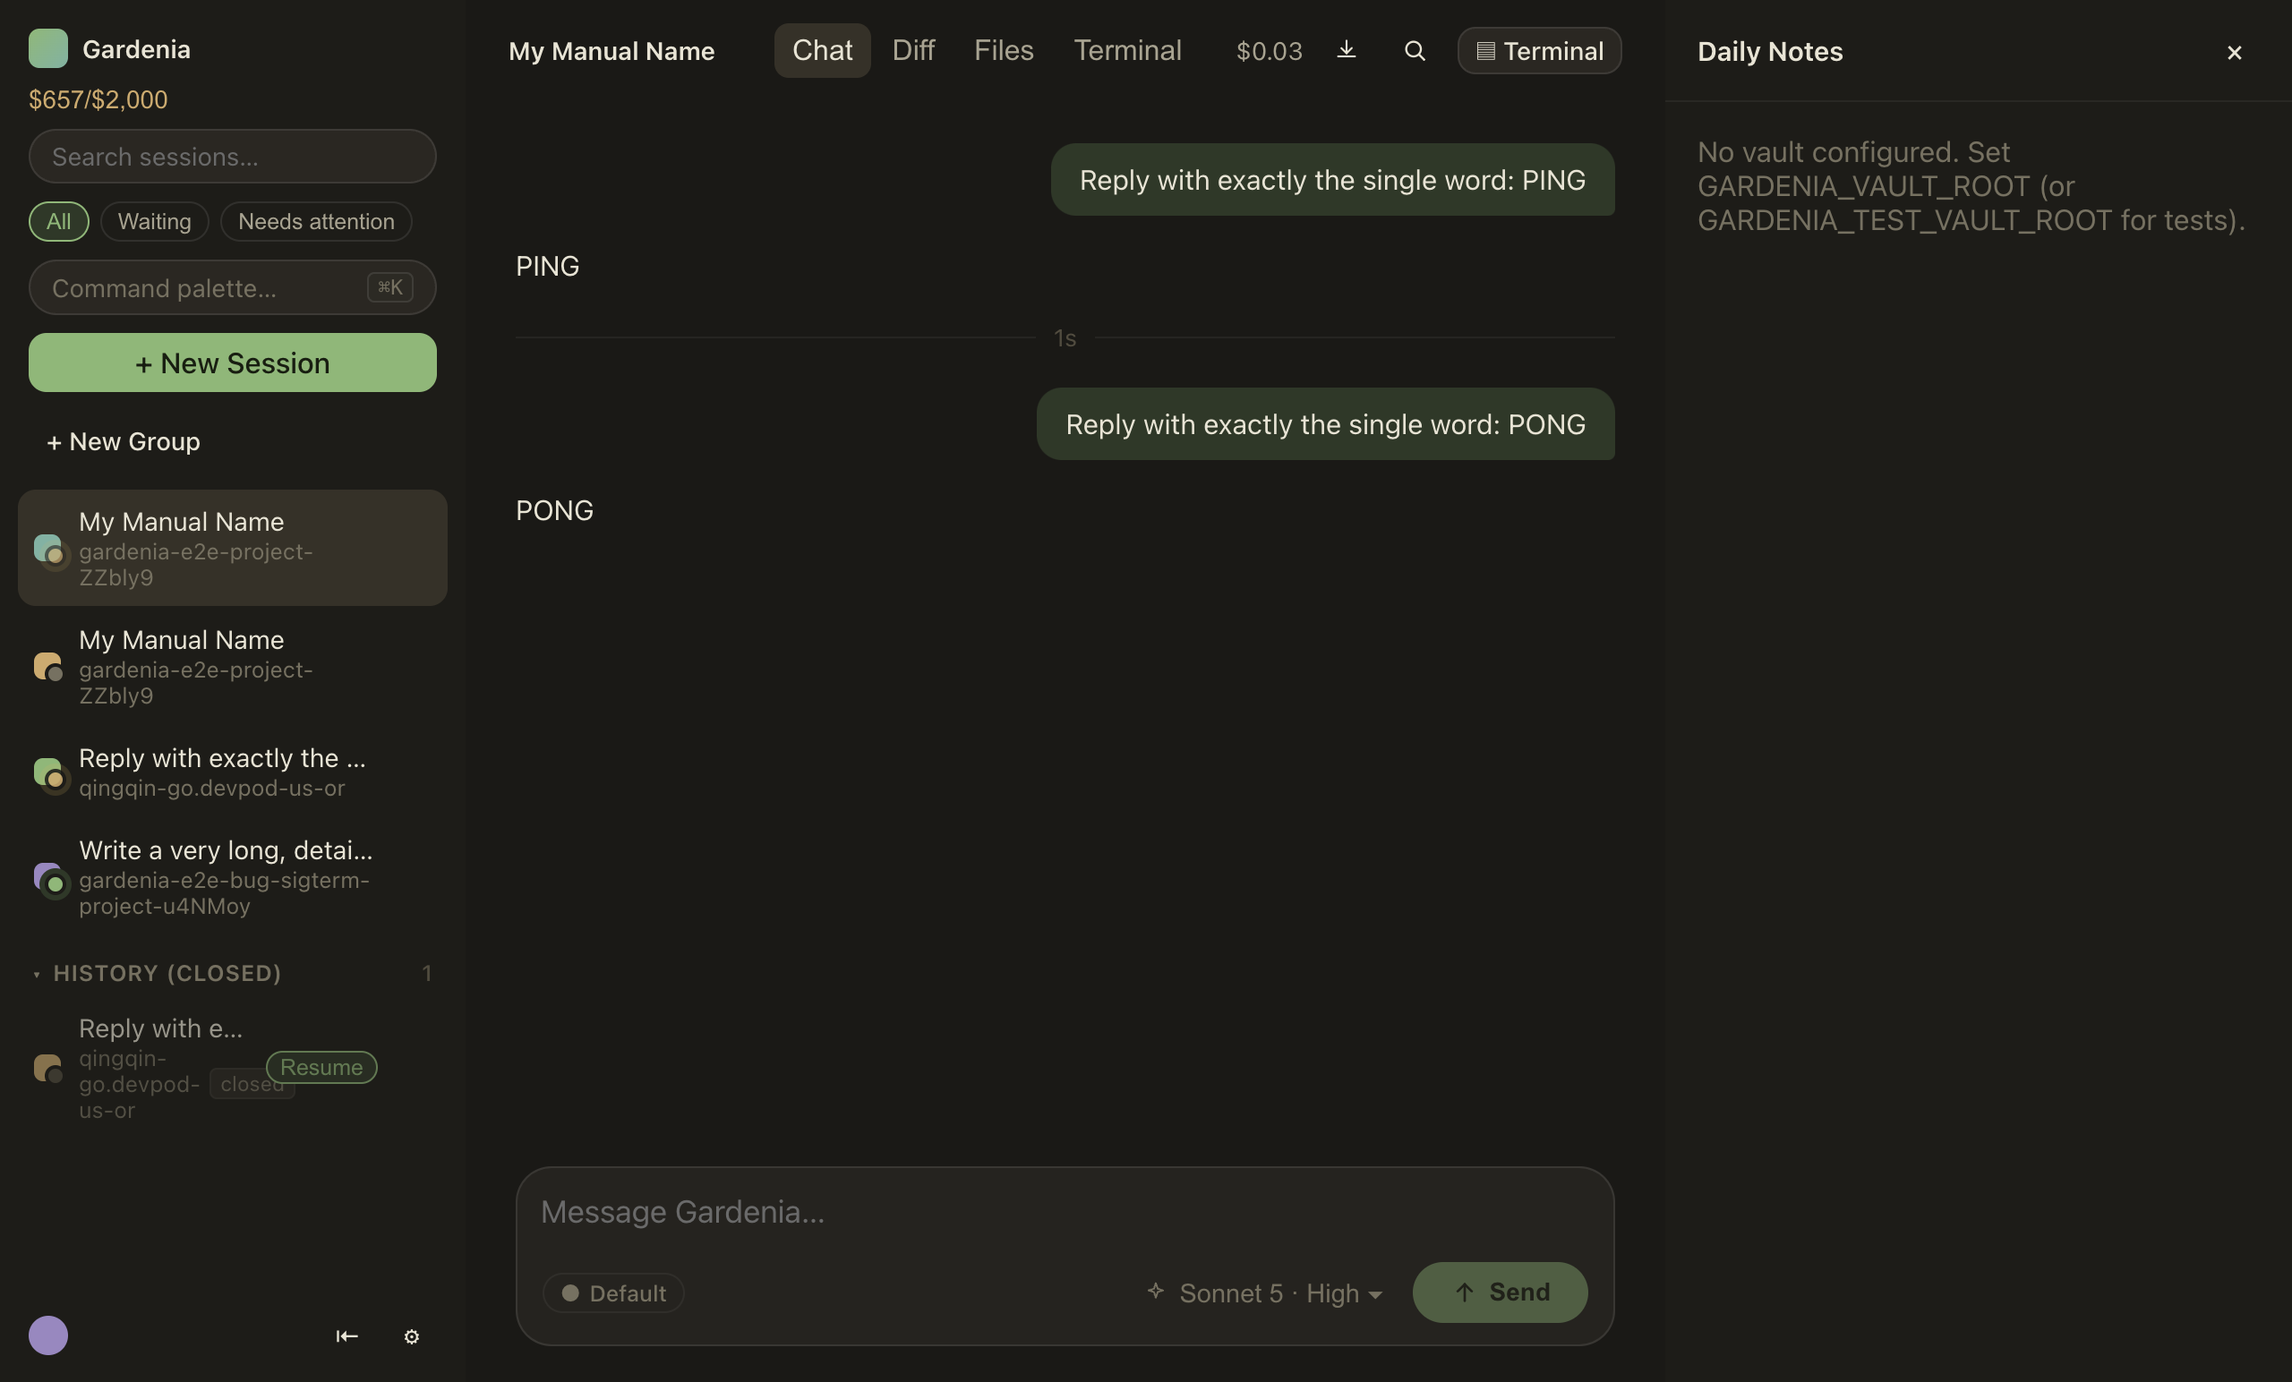
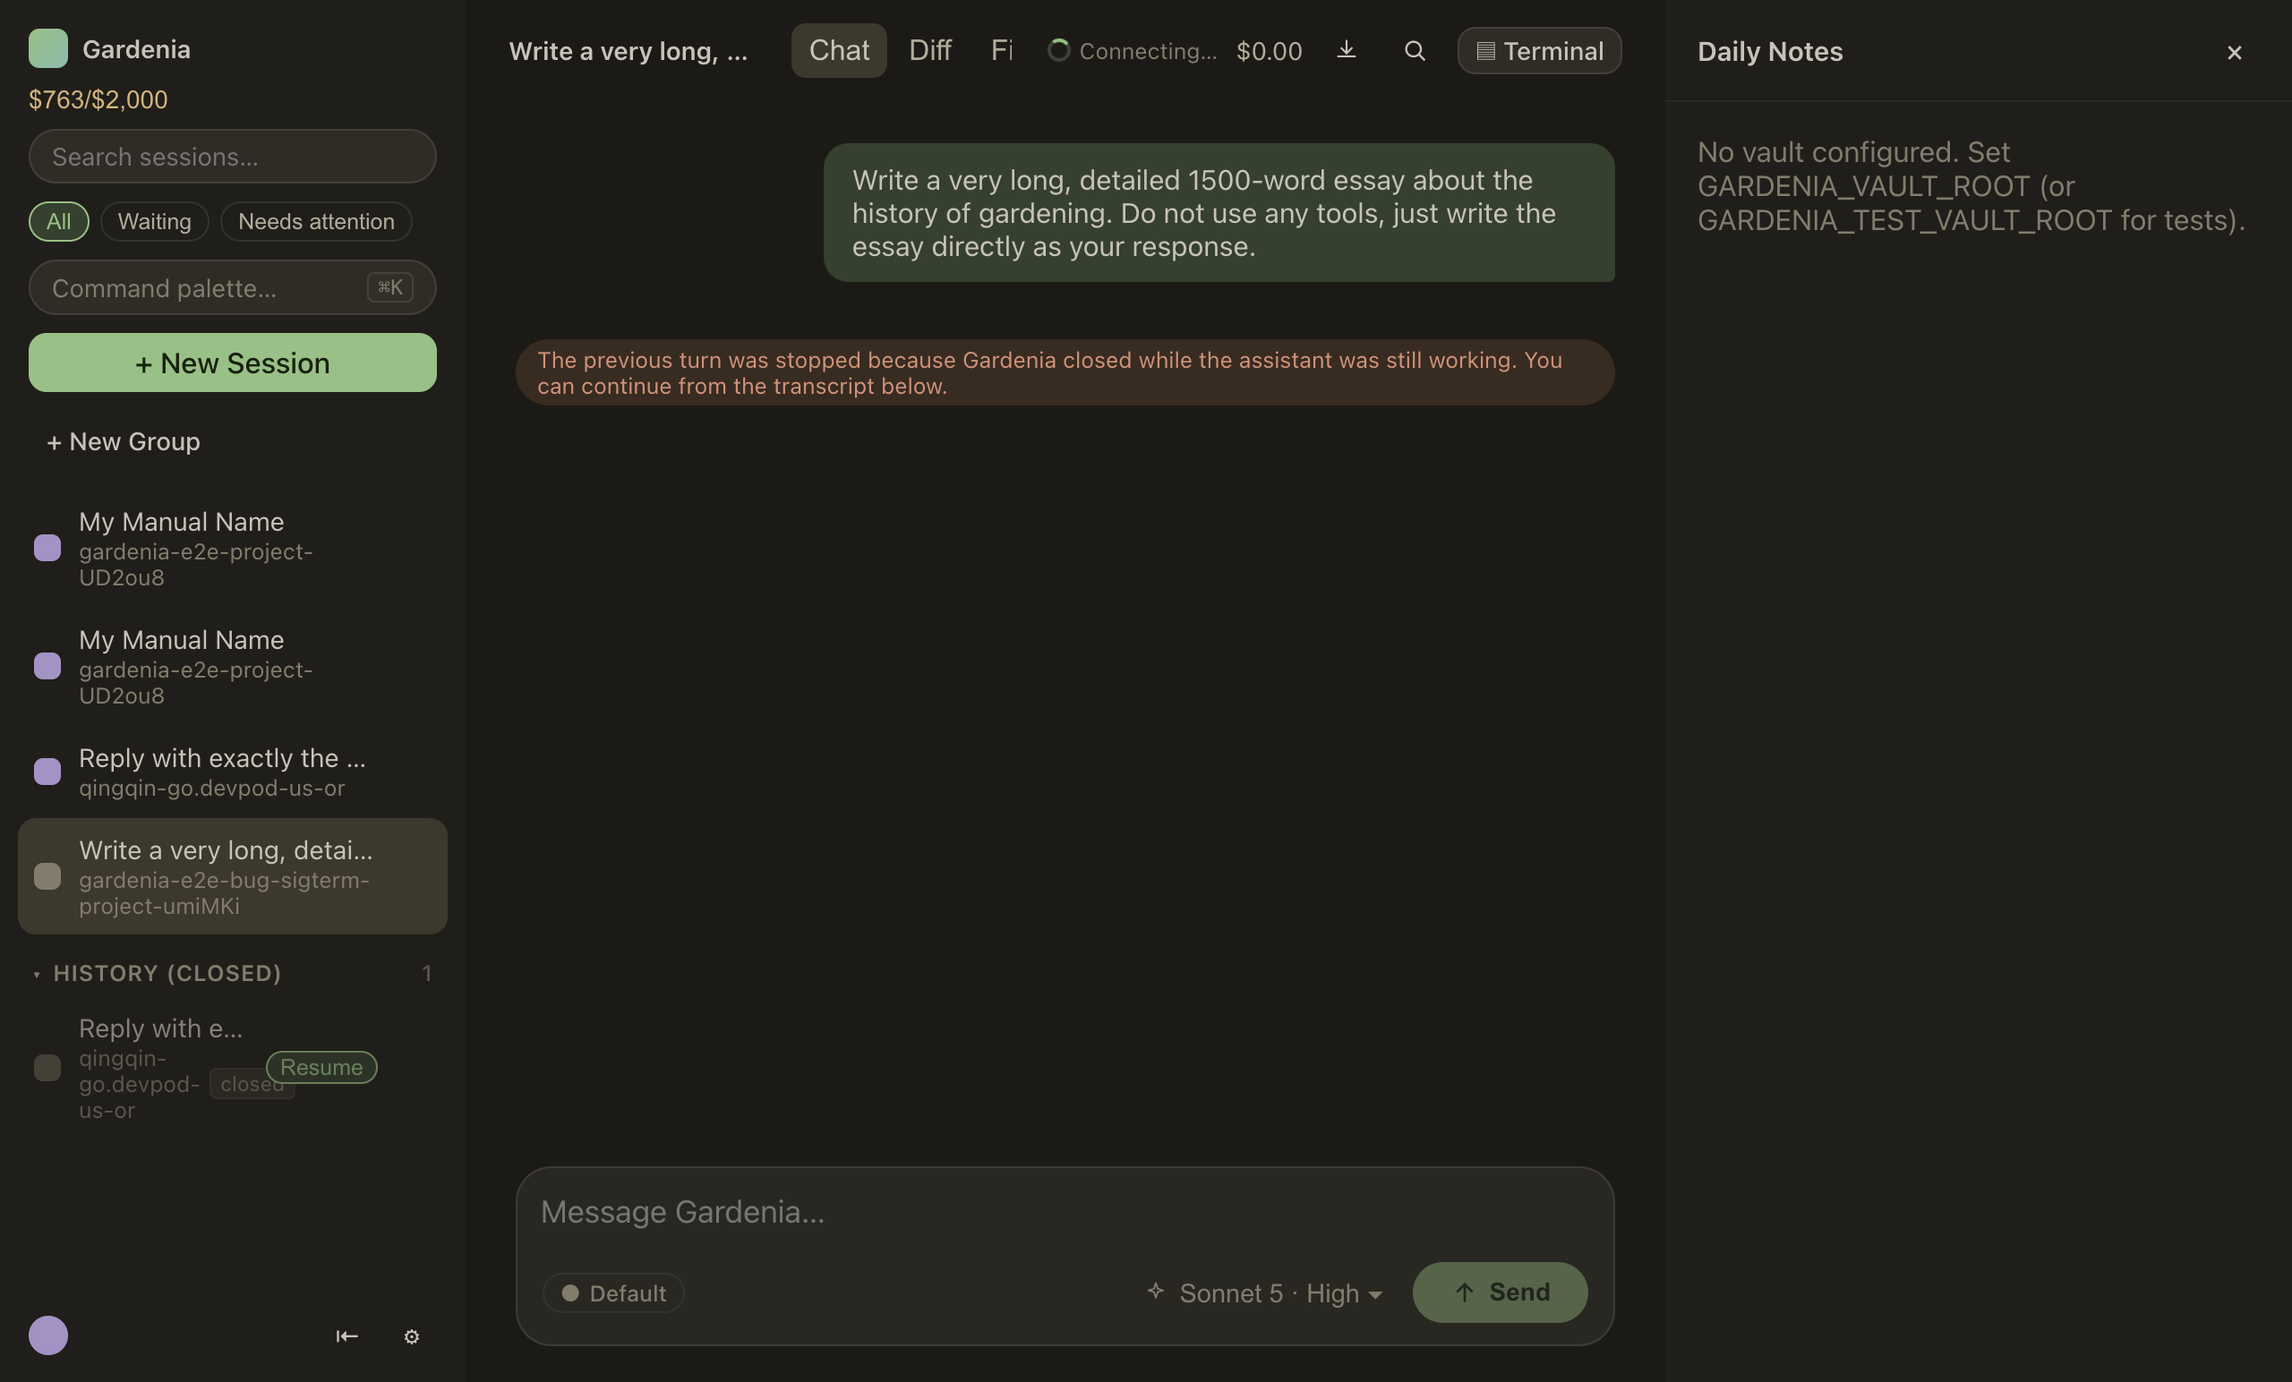
fix: one-time interrupted-turn notice on resume instead of stale SDK errors
Gracefully interrupt claude-code sessions on app quit, persist a pending flag
when a turn is cut off by close/quit, and show a single plain-language system
message on the next resume without writing bogus process-exit errors.

diff --git a/e2e/session-lifecycle.spec.ts b/e2e/session-lifecycle.spec.ts
@@ -3,6 +3,7 @@ import { mkdtempSync, mkdirSync, writeFileSync, readFileSync, existsSync, rmSync
 import { execFileSync } from 'node:child_process'
 import { tmpdir, homedir } from 'node:os'
 import { join } from 'node:path'
+import { TURN_INTERRUPTED_NOTICE } from '../src/shared/session-types'
 
 const mainEntry = join(__dirname, '..', 'out', 'main', 'index.js')
 const artifactsDir = join(__dirname, '..', 'e2e-artifacts')
@@ -542,6 +543,7 @@ test.describe('02-session-lifecycle', () => {
     await openNewSessionModal(page)
     await page.getByTestId('pick-project-folder').click()
     await page.getByTestId('mode-claude-code').click()
+    const bugProjectDirName = bugProjectDir.split('/').pop() as string
     // A prompt that keeps the turn actively streaming for a bit — closing
     // WHILE a turn is in flight is the path that actually makes the SDK's
     // query() iterator throw (query.interrupt() only aborts a turn that's
@@ -552,7 +554,7 @@ test.describe('02-session-lifecycle', () => {
     await page.getByTestId('start-session-button').click()
     await expect(page.getByTestId('new-session-modal')).toHaveCount(0)
 
-    const row = page.locator('[data-testid="session-row"]').first()
+    const row = page.locator('[data-testid="session-row"]', { hasText: bugProjectDirName })
     await expect(row).toBeVisible({ timeout: 15_000 })
     const sessionId = (await row.getAttribute('data-session-id')) as string
     expect(sessionId).toBeTruthy()
@@ -568,14 +570,16 @@ test.describe('02-session-lifecycle', () => {
     // reliable, UI-observable proxy for "actively streaming" available here.
     await expect(page.getByTestId('composer-working-pill')).toBeVisible({ timeout: 15_000 })
     await expect
-      .poll(async () => page.locator('[data-testid="transcript-message"][data-role="assistant"]').count(), {
-        timeout: 30_000
-      })
-      .toBeGreaterThan(0)
+      .poll(
+        async () => {
+          const busy = await page.getByTestId('composer-working-pill').isVisible()
+          const assistants = await page.locator('[data-testid="transcript-message"][data-role="assistant"]').count()
+          return busy && assistants > 0
+        },
+        { timeout: 30_000 }
+      )
+      .toBe(true)
 
-    // Close via the session menu — this is the live harness.interrupt() path
-    // (not a full app relaunch) that, per the bug hypothesis, writes the
-    // bogus SIGTERM 'error' system message into permanent history.
     await row.getByTestId('session-menu-button').click()
     await row.getByTestId('menu-close').click()
 
@@ -587,21 +591,30 @@ test.describe('02-session-lifecycle', () => {
     // resuming, so the reproduction isn't racing it.
     await page.waitForTimeout(2000)
 
+    await expect
+      .poll(
+        async () => {
+          const rows = await queryDb<{ pending_turn_interrupted_notice: number }>(
+            page,
+            'SELECT pending_turn_interrupted_notice FROM sessions WHERE id = ?',
+            [sessionId]
+          )
+          return rows[0]?.pending_turn_interrupted_notice ?? 0
+        },
+        { timeout: 5_000 }
+      )
+      .toBe(1)
+
     await historyRow.getByTestId('resume-button').click()
 
     const activeRow = page.locator(`[data-testid="session-row"][data-session-id="${sessionId}"]`)
     await expect(activeRow).toBeVisible({ timeout: 10_000 })
 
-    // Part B: a "Connecting…" indicator must show up during the reconnect
-    // gap (fails on main — no such element exists at all).
-    await expect(page.getByTestId('connecting-pill')).toBeVisible({ timeout: 5_000 })
-    // ...and must not be stuck visible once the session is interactive again.
+    // Reconnect may finish before the connecting pill paints — only assert it
+    // does not stay visible once the session is interactive again.
     await expect(page.getByTestId('connecting-pill')).toHaveCount(0, { timeout: 15_000 })
 
-    // Part A: no bogus system-role "Error: ..." message — persisted by
-    // applyEvent's `case 'error':` as `Error: ${event.message}` — should be
-    // sitting in the resumed transcript as a result of OUR OWN close/
-    // interrupt.
+    // Part A: no bogus SDK "Error: ..." from our own close/interrupt.
     const rowsAfterClose = await queryDb<{ role: string; content: string }>(
       page,
       "SELECT role, content FROM messages WHERE session_id = ? AND role = 'system' AND content LIKE 'Error:%'",
@@ -612,17 +625,36 @@ test.describe('02-session-lifecycle', () => {
     const texts = await page.locator('[data-testid="transcript-message"]').allTextContents()
     expect(texts.some((t) => t.startsWith('Error:'))).toBe(false)
 
+    const noticeRows = await queryDb<{ content: string }>(
+      page,
+      'SELECT content FROM messages WHERE session_id = ? AND role = ? AND content = ?',
+      [sessionId, 'system', TURN_INTERRUPTED_NOTICE]
+    )
+    expect(noticeRows).toHaveLength(1)
+    expect(texts.some((t) => t === TURN_INTERRUPTED_NOTICE)).toBe(true)
+
+    // Closing idle and resuming again must not duplicate the notice.
+    await expect(page.getByTestId('composer-working-pill')).toHaveCount(0, { timeout: 15_000 })
+    await activeRow.getByTestId('session-menu-button').click()
+    await activeRow.getByTestId('menu-close').click()
+    await expect(historyRow).toBeVisible({ timeout: 10_000 })
+    await page.waitForTimeout(1000)
+    await historyRow.getByTestId('resume-button').click()
+    await expect(page.locator(`[data-testid="session-row"][data-session-id="${sessionId}"]`)).toBeVisible({
+      timeout: 10_000
+    })
+    const noticeRowsAfterSecondResume = await queryDb<{ content: string }>(
+      page,
+      'SELECT content FROM messages WHERE session_id = ? AND role = ? AND content = ?',
+      [sessionId, 'system', TURN_INTERRUPTED_NOTICE]
+    )
+    expect(noticeRowsAfterSecondResume).toHaveLength(1)
+
     await page.screenshot({ path: join(artifactsDir, 'bug-session-resume-sigterm-after-resume.png') })
 
-    // Log evidence: the real reconnect path itself must not have logged a
-    // failure — confirming any visible error is stale/replayed, not a live
-    // reconnect failure.
     appendMainLog(userDataDir)
     const log = readFileSync(lifecycleLogPath, 'utf-8')
     expect(log).not.toContain('"context":"reconnect"')
-
-    await row.getByTestId('session-menu-button').click()
-    await row.getByTestId('menu-close').click()
   })
 
   test('bug: resume after close does not leave a Bash tool chip stuck in the running state', async () => {

diff --git a/src/main/sessions/manager.ts b/src/main/sessions/manager.ts
@@ -19,6 +19,7 @@ import type {
   SessionStatus,
   SlashCommandInfo
 } from '../../shared/session-types'
+import { TURN_INTERRUPTED_NOTICE } from '../../shared/session-types'
 import type {
   AskUserQuestionContent,
   CompactionContent,
@@ -547,6 +548,7 @@ export class SessionManager {
     if (!existing) throw new Error(`Unknown session: ${sessionId}`)
     const session = this.decorate(this.store.reopenSession(sessionId) ?? existing)
     this.finalizeStaleRunningToolCalls(sessionId)
+    this.deliverPendingTurnInterruptedNotice(sessionId)
     const messages = this.store.listMessages(sessionId)
     this.sendLifecycle({ type: 'session.resumed', session })
     return { session, messages }
@@ -1059,6 +1061,7 @@ export class SessionManager {
   // ── Close / Delete / Rename / Pin ────────────────────────────────────
 
   closeSession(sessionId: string): SessionRecord {
+    this.markInterruptedTurnNoticeIfBusy(sessionId)
     void this.harness.interrupt(sessionId).catch(() => undefined)
     const live = this.live.get(sessionId)
     this.finalizeStaleRunningToolCalls(sessionId, live)
@@ -1211,6 +1214,26 @@ export class SessionManager {
     for await (const event of events) {
       this.applyEvent(sessionId, event)
     }
+  }
+
+  private markInterruptedTurnNoticeIfBusy(sessionId: string): void {
+    const live = this.live.get(sessionId)
+    if (!live) return
+    const turnInFlight = live.busy || live.bufferMessageId != null || live.pendingTools.size > 0
+    if (turnInFlight) {
+      this.store.setPendingTurnInterruptedNotice(sessionId)
+    }
+  }
+
+  /** Inserts {@link TURN_INTERRUPTED_NOTICE} at most once per pending flag. */
+  private deliverPendingTurnInterruptedNotice(sessionId: string): void {
+    if (!this.store.consumePendingTurnInterruptedNotice(sessionId)) return
+    const message = this.store.addMessage({
+      sessionId,
+      role: 'system',
+      content: TURN_INTERRUPTED_NOTICE
+    })
+    this.sendMessage(sessionId, message)
   }
 
   private applyEvent(sessionId: string, event: HarnessEvent): void {
@@ -1556,6 +1579,33 @@ export class SessionManager {
     }
     if (updated && updated.name === title) {
       this.sendLifecycle({ type: 'session.updated', session: updated })
+    }
+  }
+
+  /**
+   * Gracefully interrupts every live claude-code session on app quit so SDK
+   * teardown surfaces `interrupted` (not `error`) and mid-turn sessions get
+   * {@link TURN_INTERRUPTED_NOTICE} on the next resume.
+   */
+  async shutdownAllHarnessSessionsForAppQuit(): Promise<void> {
+    for (const [sessionId, liveStream] of this.live.entries()) {
+      const turnInFlight =
+        liveStream.busy || liveStream.bufferMessageId != null || liveStream.pendingTools.size > 0
+      if (turnInFlight) {
+        this.store.setPendingTurnInterruptedNotice(sessionId)
+      }
+    }
+    const sessionIds = this.store
+      .listActiveSessions()
+      .filter((s) => s.mode === 'claude-code')
+      .map((s) => s.id)
+    await Promise.all(sessionIds.map((id) => this.harness.interrupt(id).catch(() => undefined)))
+    // Let each session's `consume()` loop apply `interrupted` before the DB closes.
+    await delay(750)
+    for (const sessionId of sessionIds) {
+      this.live.delete(sessionId)
+      this.connecting.delete(sessionId)
+      this.sendTurnState(sessionId, false)
     }
   }
 

diff --git a/src/main/index.ts b/src/main/index.ts
@@ -19,6 +19,9 @@ const isDev = !app.isPackaged
 let mainWindow: BrowserWindow | null = null
 let ptyManager: PtyManager | null = null
 let portManager: PortForwardManager | null = null
+let sessionManager: SessionManager | null = null
+/** Prevents a second `before-quit` from re-entering async harness teardown. */
+let appQuitHarnessShutdownDone = false
 
 function createWindow(): BrowserWindow {
   const win = new BrowserWindow({
@@ -113,8 +116,9 @@ app.whenReady().then(() => {
   // guidance) — sessions/turns are keyed off its own internal map, not
   // re-created per IPC call.
   const harness = new ClaudeAgentSdkHarness()
-  const sessionManager = new SessionManager(sessionStore, harness, createStaticHostResolver(), () => mainWindow)
-  registerIpcHandlers(sessionManager)
+  sessionManager = new SessionManager(sessionStore, harness, createStaticHostResolver(), () => mainWindow)
+  const manager = sessionManager
+  registerIpcHandlers(manager)
 
   logger.info('app ready', { version: app.getVersion(), platform: process.platform })
 
@@ -123,7 +127,7 @@ app.whenReady().then(() => {
   // Fire-and-forget: probe each session's recoverability in the background
   // and push session:stale events to the renderer for any that can't resume.
   // Deliberately delayed so the window has time to render before SSH probes start.
-  setTimeout(() => sessionManager.startupReconnect(), 1500)
+  setTimeout(() => manager.startupReconnect(), 1500)
 
   app.on('activate', () => {
     if (BrowserWindow.getAllWindows().length === 0) mainWindow = createWindow()
@@ -141,7 +145,29 @@ app.on('window-all-closed', () => {
   }
 })
 
-app.on('before-quit', () => {
-  ptyManager?.killAll()
-  portManager?.killAll()
+app.on('before-quit', (event) => {
+  if (appQuitHarnessShutdownDone) {
+    ptyManager?.killAll()
+    portManager?.killAll()
+    return
+  }
+  if (!sessionManager) {
+    ptyManager?.killAll()
+    portManager?.killAll()
+    return
+  }
+  event.preventDefault()
+  void sessionManager
+    .shutdownAllHarnessSessionsForAppQuit()
+    .catch((err) => {
+      logger.error('app quit harness shutdown failed', {
+        error: err instanceof Error ? err.message : String(err)
+      })
+    })
+    .finally(() => {
+      appQuitHarnessShutdownDone = true
+      ptyManager?.killAll()
+      portManager?.killAll()
+      app.quit()
+    })
 })

diff --git a/src/main/sessions/store.ts b/src/main/sessions/store.ts
@@ -50,6 +50,7 @@ interface SessionRow {
   model_id: string | null
   effort: string | null
   worktree_path: string | null
+  pending_turn_interrupted_notice: number
 }
 
 interface MessageRow {
@@ -282,6 +283,24 @@ export class SessionStore {
    */
   markEverConnected(id: string): void {
     this.db.prepare('UPDATE sessions SET ever_connected = 1 WHERE id = ?').run(id)
+  }
+
+  /** Marks that the next resume should show {@link TURN_INTERRUPTED_NOTICE} once (fix-app-quit-interrupted-turn-notice). */
+  setPendingTurnInterruptedNotice(id: string): void {
+    this.db.prepare('UPDATE sessions SET pending_turn_interrupted_notice = 1 WHERE id = ?').run(id)
+  }
+
+  /**
+   * Returns true if a pending interrupted-turn notice was set, and clears the
+   * flag atomically so the notice is only ever delivered once per interrupt.
+   */
+  consumePendingTurnInterruptedNotice(id: string): boolean {
+    const row = this.db
+      .prepare('SELECT pending_turn_interrupted_notice FROM sessions WHERE id = ?')
+      .get(id) as { pending_turn_interrupted_notice: number } | undefined
+    if (!row || row.pending_turn_interrupted_notice !== 1) return false
+    this.db.prepare('UPDATE sessions SET pending_turn_interrupted_notice = 0 WHERE id = ?').run(id)
+    return true
   }
 
   /** Persists the session's current SDK permission mode (restore-mode-and-model-on-resume). Called at every site that updates the in-memory permissionModes Map. */

diff --git a/src/main/db.ts b/src/main/db.ts
@@ -181,6 +181,16 @@ const MIGRATIONS: Array<{ name: string; sql: string }> = [
     sql: `
       ALTER TABLE sessions ADD COLUMN worktree_path TEXT;
     `
+  },
+  {
+    // fix-app-quit-interrupted-turn-notice: set when Gardenia closes or quits
+    // while a turn is in flight (`live.busy`); consumed once on the next
+    // resume/relaunch transcript load to insert a plain-language system
+    // notice (not a raw SDK "process exited" error).
+    name: '0009_pending_turn_interrupted_notice',
+    sql: `
+      ALTER TABLE sessions ADD COLUMN pending_turn_interrupted_notice INTEGER NOT NULL DEFAULT 0;
+    `
   }
 ]
 

diff --git a/src/shared/session-types.ts b/src/shared/session-types.ts
@@ -6,6 +6,10 @@
 
 export type SessionMode = 'terminal' | 'claude-code'
 
+/** System transcript copy shown once after a mid-turn app close/quit (fix-app-quit-interrupted-turn-notice). */
+export const TURN_INTERRUPTED_NOTICE =
+  'The previous turn was stopped because Gardenia closed while the assistant was still working. You can continue from the transcript below.'
+
 /**
  * SDK permission-mode values Gardenia exposes to the user (11-composer-mode-
  * indicator). Deliberately a SUBSET of the real SDK's own `PermissionMode`
